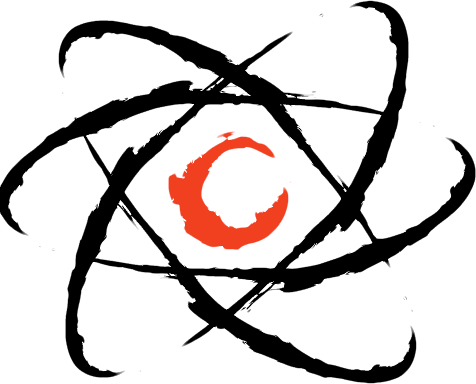
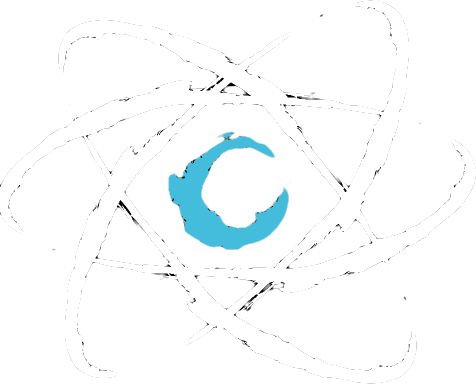
prod

diff --git a/public/stylesheets/jquery-ui-1.8.6.css b/public/stylesheets/jquery-ui-1.8.6.css
@@ -50,37 +50,37 @@
  *
  * http://docs.jquery.com/UI/Theming/API
  *
- * To view and modify this theme, visit http://jqueryui.com/themeroller/?ffDefault=Verdana,Arial,sans-serif&fwDefault=normal&fsDefault=1.1em&cornerRadius=4px&bgColorHeader=cccccc&bgTextureHeader=03_highlight_soft.png&bgImgOpacityHeader=75&borderColorHeader=aaaaaa&fcHeader=222222&iconColorHeader=222222&bgColorContent=ffffff&bgTextureContent=01_flat.png&bgImgOpacityContent=75&borderColorContent=aaaaaa&fcContent=222222&iconColorContent=222222&bgColorDefault=e6e6e6&bgTextureDefault=02_glass.png&bgImgOpacityDefault=75&borderColorDefault=d3d3d3&fcDefault=555555&iconColorDefault=888888&bgColorHover=dadada&bgTextureHover=02_glass.png&bgImgOpacityHover=75&borderColorHover=999999&fcHover=212121&iconColorHover=454545&bgColorActive=ffffff&bgTextureActive=02_glass.png&bgImgOpacityActive=65&borderColorActive=aaaaaa&fcActive=212121&iconColorActive=454545&bgColorHighlight=fbf9ee&bgTextureHighlight=02_glass.png&bgImgOpacityHighlight=55&borderColorHighlight=fcefa1&fcHighlight=363636&iconColorHighlight=2e83ff&bgColorError=fef1ec&bgTextureError=02_glass.png&bgImgOpacityError=95&borderColorError=cd0a0a&fcError=cd0a0a&iconColorError=cd0a0a&bgColorOverlay=aaaaaa&bgTextureOverlay=01_flat.png&bgImgOpacityOverlay=0&opacityOverlay=30&bgColorShadow=aaaaaa&bgTextureShadow=01_flat.png&bgImgOpacityShadow=0&opacityShadow=30&thicknessShadow=8px&offsetTopShadow=-8px&offsetLeftShadow=-8px&cornerRadiusShadow=8px
+ * To view and modify this theme, visit http://jqueryui.com/themeroller/?ffDefault=Helvetica,%20Arial,%20sans-serif&fwDefault=bold&fsDefault=1.1em&cornerRadius=2px&bgColorHeader=dddddd&bgTextureHeader=03_highlight_soft.png&bgImgOpacityHeader=50&borderColorHeader=dddddd&fcHeader=444444&iconColorHeader=0073ea&bgColorContent=ffffff&bgTextureContent=01_flat.png&bgImgOpacityContent=75&borderColorContent=dddddd&fcContent=444444&iconColorContent=ff0084&bgColorDefault=f6f6f6&bgTextureDefault=03_highlight_soft.png&bgImgOpacityDefault=100&borderColorDefault=dddddd&fcDefault=0073ea&iconColorDefault=666666&bgColorHover=0073ea&bgTextureHover=03_highlight_soft.png&bgImgOpacityHover=25&borderColorHover=0073ea&fcHover=ffffff&iconColorHover=ffffff&bgColorActive=ffffff&bgTextureActive=02_glass.png&bgImgOpacityActive=65&borderColorActive=dddddd&fcActive=ff0084&iconColorActive=454545&bgColorHighlight=ffffff&bgTextureHighlight=01_flat.png&bgImgOpacityHighlight=55&borderColorHighlight=cccccc&fcHighlight=444444&iconColorHighlight=0073ea&bgColorError=ffffff&bgTextureError=01_flat.png&bgImgOpacityError=55&borderColorError=ff0084&fcError=222222&iconColorError=ff0084&bgColorOverlay=eeeeee&bgTextureOverlay=01_flat.png&bgImgOpacityOverlay=0&opacityOverlay=80&bgColorShadow=aaaaaa&bgTextureShadow=01_flat.png&bgImgOpacityShadow=0&opacityShadow=60&thicknessShadow=4px&offsetTopShadow=-4px&offsetLeftShadow=-4px&cornerRadiusShadow=0px
  */
 
 
 /* Component containers
 ----------------------------------*/
-.ui-widget { font-family: Verdana,Arial,sans-serif; font-size: 1.1em; }
+.ui-widget { font-family: Helvetica, Arial, sans-serif; font-size: 1.1em; }
 .ui-widget .ui-widget { font-size: 1em; }
-.ui-widget input, .ui-widget select, .ui-widget textarea, .ui-widget button { font-family: Verdana,Arial,sans-serif; font-size: 1em; }
-.ui-widget-content { border: 1px solid #aaaaaa; background: #ffffff url(images/ui-bg_flat_75_ffffff_40x100.png) 50% 50% repeat-x; color: #222222; }
-.ui-widget-content a { color: #222222; }
-.ui-widget-header { border: 1px solid #aaaaaa; background: #cccccc url(images/ui-bg_highlight-soft_75_cccccc_1x100.png) 50% 50% repeat-x; color: #222222; font-weight: bold; }
-.ui-widget-header a { color: #222222; }
+.ui-widget input, .ui-widget select, .ui-widget textarea, .ui-widget button { font-family: Helvetica, Arial, sans-serif; font-size: 1em; }
+.ui-widget-content { border: 1px solid #dddddd; background: #ffffff url(images/ui-bg_flat_75_ffffff_40x100.png) 50% 50% repeat-x; color: #444444; }
+.ui-widget-content a { color: #444444; }
+.ui-widget-header { border: 1px solid #dddddd; background: #dddddd url(images/ui-bg_highlight-soft_50_dddddd_1x100.png) 50% 50% repeat-x; color: #444444; font-weight: bold; }
+.ui-widget-header a { color: #444444; }
 
 /* Interaction states
 ----------------------------------*/
-.ui-state-default, .ui-widget-content .ui-state-default, .ui-widget-header .ui-state-default { border: 1px solid #d3d3d3; background: #e6e6e6 url(images/ui-bg_glass_75_e6e6e6_1x400.png) 50% 50% repeat-x; font-weight: normal; color: #555555; }
-.ui-state-default a, .ui-state-default a:link, .ui-state-default a:visited { color: #555555; text-decoration: none; }
-.ui-state-hover, .ui-widget-content .ui-state-hover, .ui-widget-header .ui-state-hover, .ui-state-focus, .ui-widget-content .ui-state-focus, .ui-widget-header .ui-state-focus { border: 1px solid #999999; background: #dadada url(images/ui-bg_glass_75_dadada_1x400.png) 50% 50% repeat-x; font-weight: normal; color: #212121; }
-.ui-state-hover a, .ui-state-hover a:hover { color: #212121; text-decoration: none; }
-.ui-state-active, .ui-widget-content .ui-state-active, .ui-widget-header .ui-state-active { border: 1px solid #aaaaaa; background: #ffffff url(images/ui-bg_glass_65_ffffff_1x400.png) 50% 50% repeat-x; font-weight: normal; color: #212121; }
-.ui-state-active a, .ui-state-active a:link, .ui-state-active a:visited { color: #212121; text-decoration: none; }
+.ui-state-default, .ui-widget-content .ui-state-default, .ui-widget-header .ui-state-default { border: 1px solid #dddddd; background: #f6f6f6 url(images/ui-bg_highlight-soft_100_f6f6f6_1x100.png) 50% 50% repeat-x; font-weight: bold; color: #0073ea; }
+.ui-state-default a, .ui-state-default a:link, .ui-state-default a:visited { color: #0073ea; text-decoration: none; }
+.ui-state-hover, .ui-widget-content .ui-state-hover, .ui-widget-header .ui-state-hover, .ui-state-focus, .ui-widget-content .ui-state-focus, .ui-widget-header .ui-state-focus { border: 1px solid #0073ea; background: #0073ea url(images/ui-bg_highlight-soft_25_0073ea_1x100.png) 50% 50% repeat-x; font-weight: bold; color: #ffffff; }
+.ui-state-hover a, .ui-state-hover a:hover { color: #ffffff; text-decoration: none; }
+.ui-state-active, .ui-widget-content .ui-state-active, .ui-widget-header .ui-state-active { border: 1px solid #dddddd; background: #ffffff url(images/ui-bg_glass_65_ffffff_1x400.png) 50% 50% repeat-x; font-weight: bold; color: #ff0084; }
+.ui-state-active a, .ui-state-active a:link, .ui-state-active a:visited { color: #ff0084; text-decoration: none; }
 .ui-widget :active { outline: none; }
 
 /* Interaction Cues
 ----------------------------------*/
-.ui-state-highlight, .ui-widget-content .ui-state-highlight, .ui-widget-header .ui-state-highlight  {border: 1px solid #fcefa1; background: #fbf9ee url(images/ui-bg_glass_55_fbf9ee_1x400.png) 50% 50% repeat-x; color: #363636; }
-.ui-state-highlight a, .ui-widget-content .ui-state-highlight a,.ui-widget-header .ui-state-highlight a { color: #363636; }
-.ui-state-error, .ui-widget-content .ui-state-error, .ui-widget-header .ui-state-error {border: 1px solid #cd0a0a; background: #fef1ec url(images/ui-bg_glass_95_fef1ec_1x400.png) 50% 50% repeat-x; color: #cd0a0a; }
-.ui-state-error a, .ui-widget-content .ui-state-error a, .ui-widget-header .ui-state-error a { color: #cd0a0a; }
-.ui-state-error-text, .ui-widget-content .ui-state-error-text, .ui-widget-header .ui-state-error-text { color: #cd0a0a; }
+.ui-state-highlight, .ui-widget-content .ui-state-highlight, .ui-widget-header .ui-state-highlight  {border: 1px solid #cccccc; background: #ffffff url(images/ui-bg_flat_55_ffffff_40x100.png) 50% 50% repeat-x; color: #444444; }
+.ui-state-highlight a, .ui-widget-content .ui-state-highlight a,.ui-widget-header .ui-state-highlight a { color: #444444; }
+.ui-state-error, .ui-widget-content .ui-state-error, .ui-widget-header .ui-state-error {border: 1px solid #ff0084; background: #ffffff url(images/ui-bg_flat_55_ffffff_40x100.png) 50% 50% repeat-x; color: #222222; }
+.ui-state-error a, .ui-widget-content .ui-state-error a, .ui-widget-header .ui-state-error a { color: #222222; }
+.ui-state-error-text, .ui-widget-content .ui-state-error-text, .ui-widget-header .ui-state-error-text { color: #222222; }
 .ui-priority-primary, .ui-widget-content .ui-priority-primary, .ui-widget-header .ui-priority-primary { font-weight: bold; }
 .ui-priority-secondary, .ui-widget-content .ui-priority-secondary,  .ui-widget-header .ui-priority-secondary { opacity: .7; filter:Alpha(Opacity=70); font-weight: normal; }
 .ui-state-disabled, .ui-widget-content .ui-state-disabled, .ui-widget-header .ui-state-disabled { opacity: .35; filter:Alpha(Opacity=35); background-image: none; }
@@ -89,14 +89,14 @@
 ----------------------------------*/
 
 /* states and images */
-.ui-icon { width: 16px; height: 16px; background-image: url(images/ui-icons_222222_256x240.png); }
-.ui-widget-content .ui-icon {background-image: url(images/ui-icons_222222_256x240.png); }
-.ui-widget-header .ui-icon {background-image: url(images/ui-icons_222222_256x240.png); }
-.ui-state-default .ui-icon { background-image: url(images/ui-icons_888888_256x240.png); }
-.ui-state-hover .ui-icon, .ui-state-focus .ui-icon {background-image: url(images/ui-icons_454545_256x240.png); }
+.ui-icon { width: 16px; height: 16px; background-image: url(images/ui-icons_ff0084_256x240.png); }
+.ui-widget-content .ui-icon {background-image: url(images/ui-icons_ff0084_256x240.png); }
+.ui-widget-header .ui-icon {background-image: url(images/ui-icons_0073ea_256x240.png); }
+.ui-state-default .ui-icon { background-image: url(images/ui-icons_666666_256x240.png); }
+.ui-state-hover .ui-icon, .ui-state-focus .ui-icon {background-image: url(images/ui-icons_ffffff_256x240.png); }
 .ui-state-active .ui-icon {background-image: url(images/ui-icons_454545_256x240.png); }
-.ui-state-highlight .ui-icon {background-image: url(images/ui-icons_2e83ff_256x240.png); }
-.ui-state-error .ui-icon, .ui-state-error-text .ui-icon {background-image: url(images/ui-icons_cd0a0a_256x240.png); }
+.ui-state-highlight .ui-icon {background-image: url(images/ui-icons_0073ea_256x240.png); }
+.ui-state-error .ui-icon, .ui-state-error-text .ui-icon {background-image: url(images/ui-icons_ff0084_256x240.png); }
 
 /* positioning */
 .ui-icon-carat-1-n { background-position: 0 0; }
@@ -280,19 +280,19 @@
 ----------------------------------*/
 
 /* Corner radius */
-.ui-corner-tl { -moz-border-radius-topleft: 4px; -webkit-border-top-left-radius: 4px; border-top-left-radius: 4px; }
-.ui-corner-tr { -moz-border-radius-topright: 4px; -webkit-border-top-right-radius: 4px; border-top-right-radius: 4px; }
-.ui-corner-bl { -moz-border-radius-bottomleft: 4px; -webkit-border-bottom-left-radius: 4px; border-bottom-left-radius: 4px; }
-.ui-corner-br { -moz-border-radius-bottomright: 4px; -webkit-border-bottom-right-radius: 4px; border-bottom-right-radius: 4px; }
-.ui-corner-top { -moz-border-radius-topleft: 4px; -webkit-border-top-left-radius: 4px; border-top-left-radius: 4px; -moz-border-radius-topright: 4px; -webkit-border-top-right-radius: 4px; border-top-right-radius: 4px; }
-.ui-corner-bottom { -moz-border-radius-bottomleft: 4px; -webkit-border-bottom-left-radius: 4px; border-bottom-left-radius: 4px; -moz-border-radius-bottomright: 4px; -webkit-border-bottom-right-radius: 4px; border-bottom-right-radius: 4px; }
-.ui-corner-right {  -moz-border-radius-topright: 4px; -webkit-border-top-right-radius: 4px; border-top-right-radius: 4px; -moz-border-radius-bottomright: 4px; -webkit-border-bottom-right-radius: 4px; border-bottom-right-radius: 4px; }
-.ui-corner-left { -moz-border-radius-topleft: 4px; -webkit-border-top-left-radius: 4px; border-top-left-radius: 4px; -moz-border-radius-bottomleft: 4px; -webkit-border-bottom-left-radius: 4px; border-bottom-left-radius: 4px; }
-.ui-corner-all { -moz-border-radius: 4px; -webkit-border-radius: 4px; border-radius: 4px; }
+.ui-corner-tl { -moz-border-radius-topleft: 2px; -webkit-border-top-left-radius: 2px; border-top-left-radius: 2px; }
+.ui-corner-tr { -moz-border-radius-topright: 2px; -webkit-border-top-right-radius: 2px; border-top-right-radius: 2px; }
+.ui-corner-bl { -moz-border-radius-bottomleft: 2px; -webkit-border-bottom-left-radius: 2px; border-bottom-left-radius: 2px; }
+.ui-corner-br { -moz-border-radius-bottomright: 2px; -webkit-border-bottom-right-radius: 2px; border-bottom-right-radius: 2px; }
+.ui-corner-top { -moz-border-radius-topleft: 2px; -webkit-border-top-left-radius: 2px; border-top-left-radius: 2px; -moz-border-radius-topright: 2px; -webkit-border-top-right-radius: 2px; border-top-right-radius: 2px; }
+.ui-corner-bottom { -moz-border-radius-bottomleft: 2px; -webkit-border-bottom-left-radius: 2px; border-bottom-left-radius: 2px; -moz-border-radius-bottomright: 2px; -webkit-border-bottom-right-radius: 2px; border-bottom-right-radius: 2px; }
+.ui-corner-right {  -moz-border-radius-topright: 2px; -webkit-border-top-right-radius: 2px; border-top-right-radius: 2px; -moz-border-radius-bottomright: 2px; -webkit-border-bottom-right-radius: 2px; border-bottom-right-radius: 2px; }
+.ui-corner-left { -moz-border-radius-topleft: 2px; -webkit-border-top-left-radius: 2px; border-top-left-radius: 2px; -moz-border-radius-bottomleft: 2px; -webkit-border-bottom-left-radius: 2px; border-bottom-left-radius: 2px; }
+.ui-corner-all { -moz-border-radius: 2px; -webkit-border-radius: 2px; border-radius: 2px; }
 
 /* Overlays */
-.ui-widget-overlay { background: #aaaaaa url(images/ui-bg_flat_0_aaaaaa_40x100.png) 50% 50% repeat-x; opacity: .30;filter:Alpha(Opacity=30); }
-.ui-widget-shadow { margin: -8px 0 0 -8px; padding: 8px; background: #aaaaaa url(images/ui-bg_flat_0_aaaaaa_40x100.png) 50% 50% repeat-x; opacity: .30;filter:Alpha(Opacity=30); -moz-border-radius: 8px; -webkit-border-radius: 8px; border-radius: 8px; }/*
+.ui-widget-overlay { background: #eeeeee url(images/ui-bg_flat_0_eeeeee_40x100.png) 50% 50% repeat-x; opacity: .80;filter:Alpha(Opacity=80); }
+.ui-widget-shadow { margin: -4px 0 0 -4px; padding: 4px; background: #aaaaaa url(images/ui-bg_flat_0_aaaaaa_40x100.png) 50% 50% repeat-x; opacity: .60;filter:Alpha(Opacity=60); -moz-border-radius: 0px; -webkit-border-radius: 0px; border-radius: 0px; }/*
  * jQuery UI Resizable 1.8.6
  *
  * Copyright 2010, AUTHORS.txt (http://jqueryui.com/about)

diff --git a/public/javascripts/application.js b/public/javascripts/application.js
@@ -1,41 +1,42 @@
 $(document).ready(function() {
 
-      $('.title').click(function(){
-        $(this).next('.info').slideToggle();
-      });
-
-
-
-$('.ui-state-default').hover( 
-  function () {
-    $(this).addClass("ui-state-hover");
-  },
-  function () {
-    $(this).removeClass("ui-state-hover");    
+  $('.title').click(function(){
+    $(this).next('.info').slideToggle();
   });
+
+
+  $('h3.ui-state-default').addClass("ui-state-hover");
+
+  $('h3.ui-state-default').hover( 
+    function () {
+      $(this).removeClass("ui-state-hover");    
+    },
+    function () {
+      $(this).addClass("ui-state-hover");
+    });
 
   $('input[type=submit]').button();
 
 });
 
-  function remove_fields(link) {
-    $(link).prev("input[type=hidden]").val("1");
-    $(link).closest(".fields").hide();
-  }
+function remove_fields(link) {
+  $(link).prev("input[type=hidden]").val("1");
+  $(link).closest(".fields").hide();
+}
 
-  function add_fields(link, association, content) {
-    var new_id = new Date().getTime();
-    var regexp = new RegExp("new_" + association, "g")
+function add_fields(link, association, content) {
+  var new_id = new Date().getTime();
+  var regexp = new RegExp("new_" + association, "g")
     $(link).parent().after(content.replace(regexp, new_id));
-  }
+}
 
 $.extend($.imgAreaSelect, {
   animate: function (fx) {
              var start = fx.elem.start, end = fx.elem.end, now = fx.now,
-curX1 = Math.round(start.x1 + (end.x1 - start.x1) * now),
-curY1 = Math.round(start.y1 + (end.y1 - start.y1) * now),
-curX2 = Math.round(start.x2 + (end.x2 - start.x2) * now),
-curY2 = Math.round(start.y2 + (end.y2 - start.y2) * now);
+  curX1 = Math.round(start.x1 + (end.x1 - start.x1) * now),
+  curY1 = Math.round(start.y1 + (end.y1 - start.y1) * now),
+  curX2 = Math.round(start.x2 + (end.x2 - start.x2) * now),
+  curY2 = Math.round(start.y2 + (end.y2 - start.y2) * now);
 fx.elem.ias.setSelection(curX1, curY1, curX2, curY2);
 fx.elem.ias.update();
            },

diff --git a/public/stylesheets/application.css b/public/stylesheets/application.css
@@ -7,9 +7,9 @@
  */
 
 body { 
-  background: url("/images/atom-clear.png") no-repeat;
+  background: #000 url("/images/atom-clear.png") no-repeat;
   background-position: -100px -100px;
-  color: #000;
+  color: #fff;
 }
 
 #remember, #forgot {
@@ -25,7 +25,7 @@ body {
 }
 
 #forgot a:hover, #forgot a:active {
-  color: #000;
+  color: #0166FF;
 }
 
 #prod-footer {
@@ -56,12 +56,12 @@ a img {
 }
 
 a {
-  color: magenta;
+  color: #669801;
   text-decoration: none;
 }
 
 a:hover, a:active {
-  color: black;
+  color: #0166FF;
 }
 
 .ui-state-error p {
@@ -260,8 +260,7 @@ a:hover, a:active {
 }
 
 .tasks li.selected, .tasks li:hover {
-  cursor: pointer;
-  background: #f0f0f0;
+  background: #333;
 }
 
 .note {

diff --git a/db/schema.rb b/db/schema.rb
@@ -10,7 +10,7 @@
 #
 # It's strongly recommended to check this file into your version control system.
 
-ActiveRecord::Schema.define(:version => 20101201203124) do
+ActiveRecord::Schema.define(:version => 20101207174006) do
 
   create_table "annotations", :force => true do |t|
     t.integer  "image_id"
@@ -104,6 +104,7 @@ ActiveRecord::Schema.define(:version => 20101201203124) do
     t.datetime "deadline"
     t.datetime "created_at"
     t.datetime "updated_at"
+    t.integer  "priority"
   end
 
   create_table "phone_numbers", :force => true do |t|
@@ -123,6 +124,7 @@ ActiveRecord::Schema.define(:version => 20101201203124) do
     t.integer  "client_id"
     t.datetime "deadline"
     t.integer  "task_id"
+    t.text     "description"
   end
 
   create_table "projects_users", :id => false, :force => true do |t|

diff --git a/app/controllers/milestones_controller.rb b/app/controllers/milestones_controller.rb
@@ -24,7 +24,8 @@ class MilestonesController < ApplicationController
   # GET /milestones/new
   # GET /milestones/new.xml
   def new
-    @milestone = Milestone.new
+    @project = Project.find(params[:project_id])
+    @milestone = @project.milestones.build
 
     respond_to do |format|
       format.html # new.html.erb

diff --git a/db/migrate/20101207173531_add_description_to_projects.rb b/db/migrate/20101207173531_add_description_to_projects.rb
@@ -1,0 +1,9 @@
+class AddDescriptionToProjects < ActiveRecord::Migration
+  def self.up
+    add_column :projects, :description, :text
+  end
+
+  def self.down
+    remove_column :projects, :description
+  end
+end

diff --git a/db/migrate/20101207174006_add_priority_to_milestones.rb b/db/migrate/20101207174006_add_priority_to_milestones.rb
@@ -1,0 +1,9 @@
+class AddPriorityToMilestones < ActiveRecord::Migration
+  def self.up
+    add_column :milestones, :priority, :integer
+  end
+
+  def self.down
+    remove_column :milestones, :priority
+  end
+end
